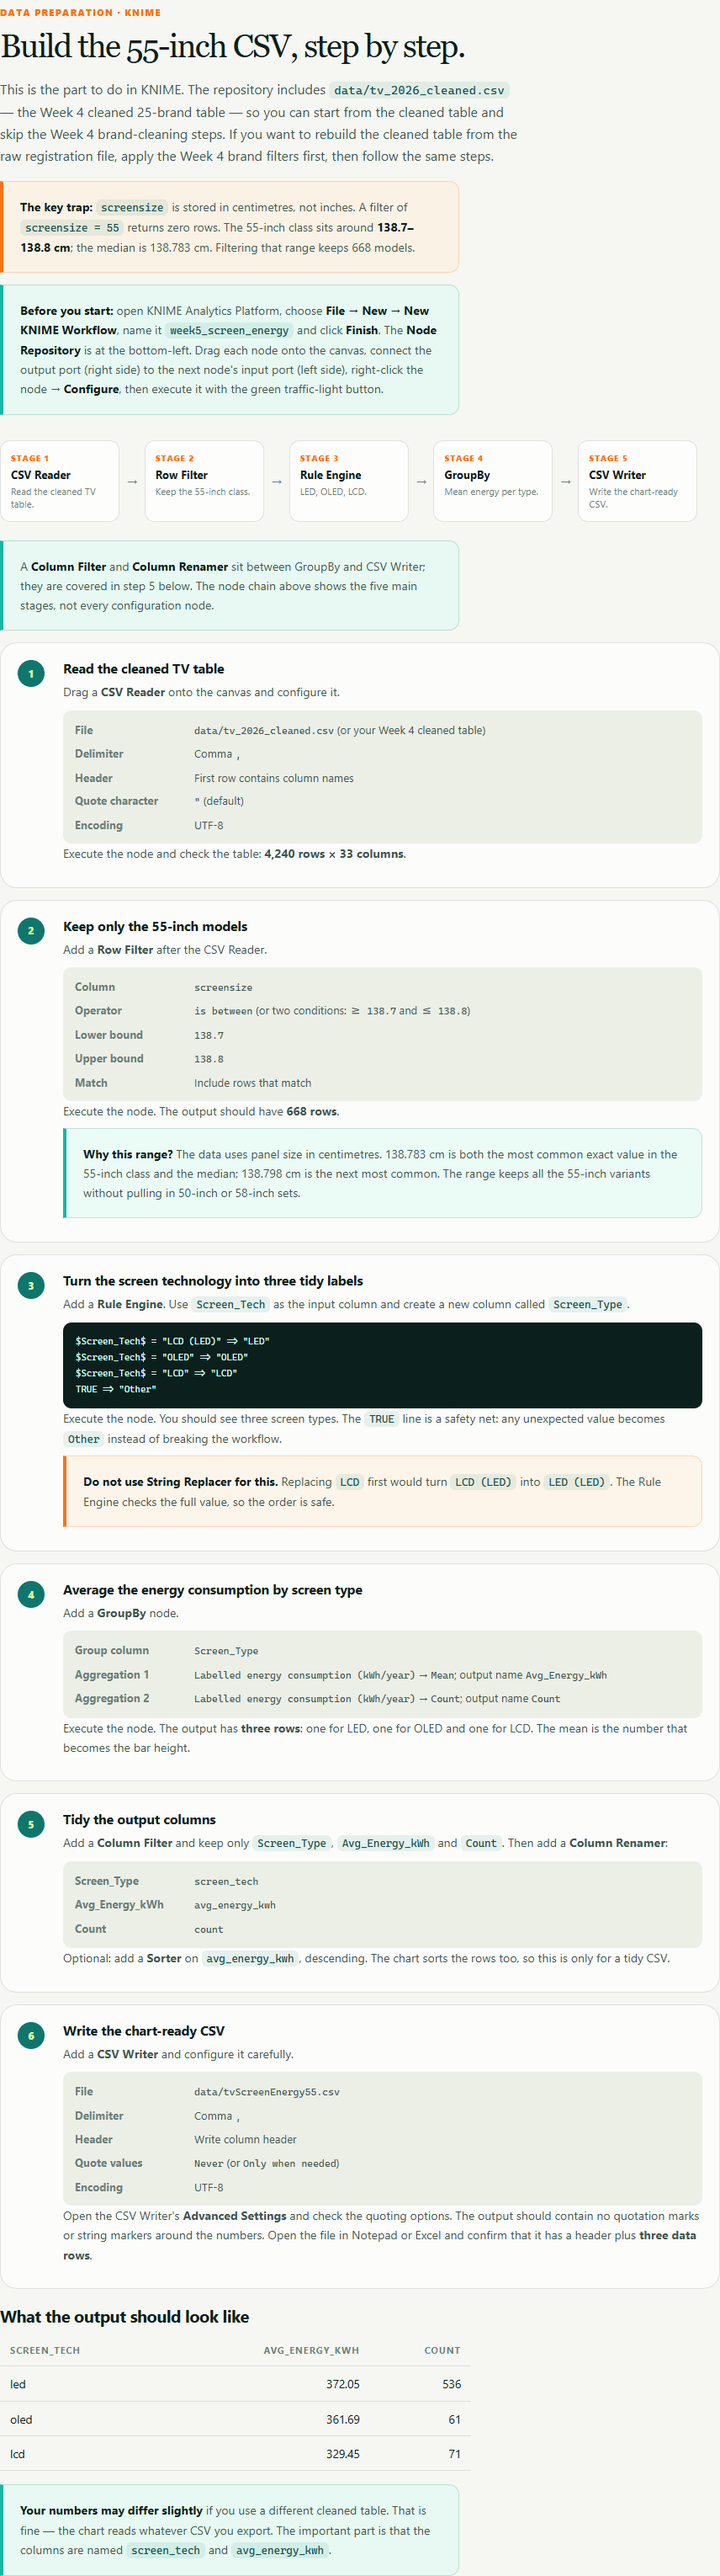
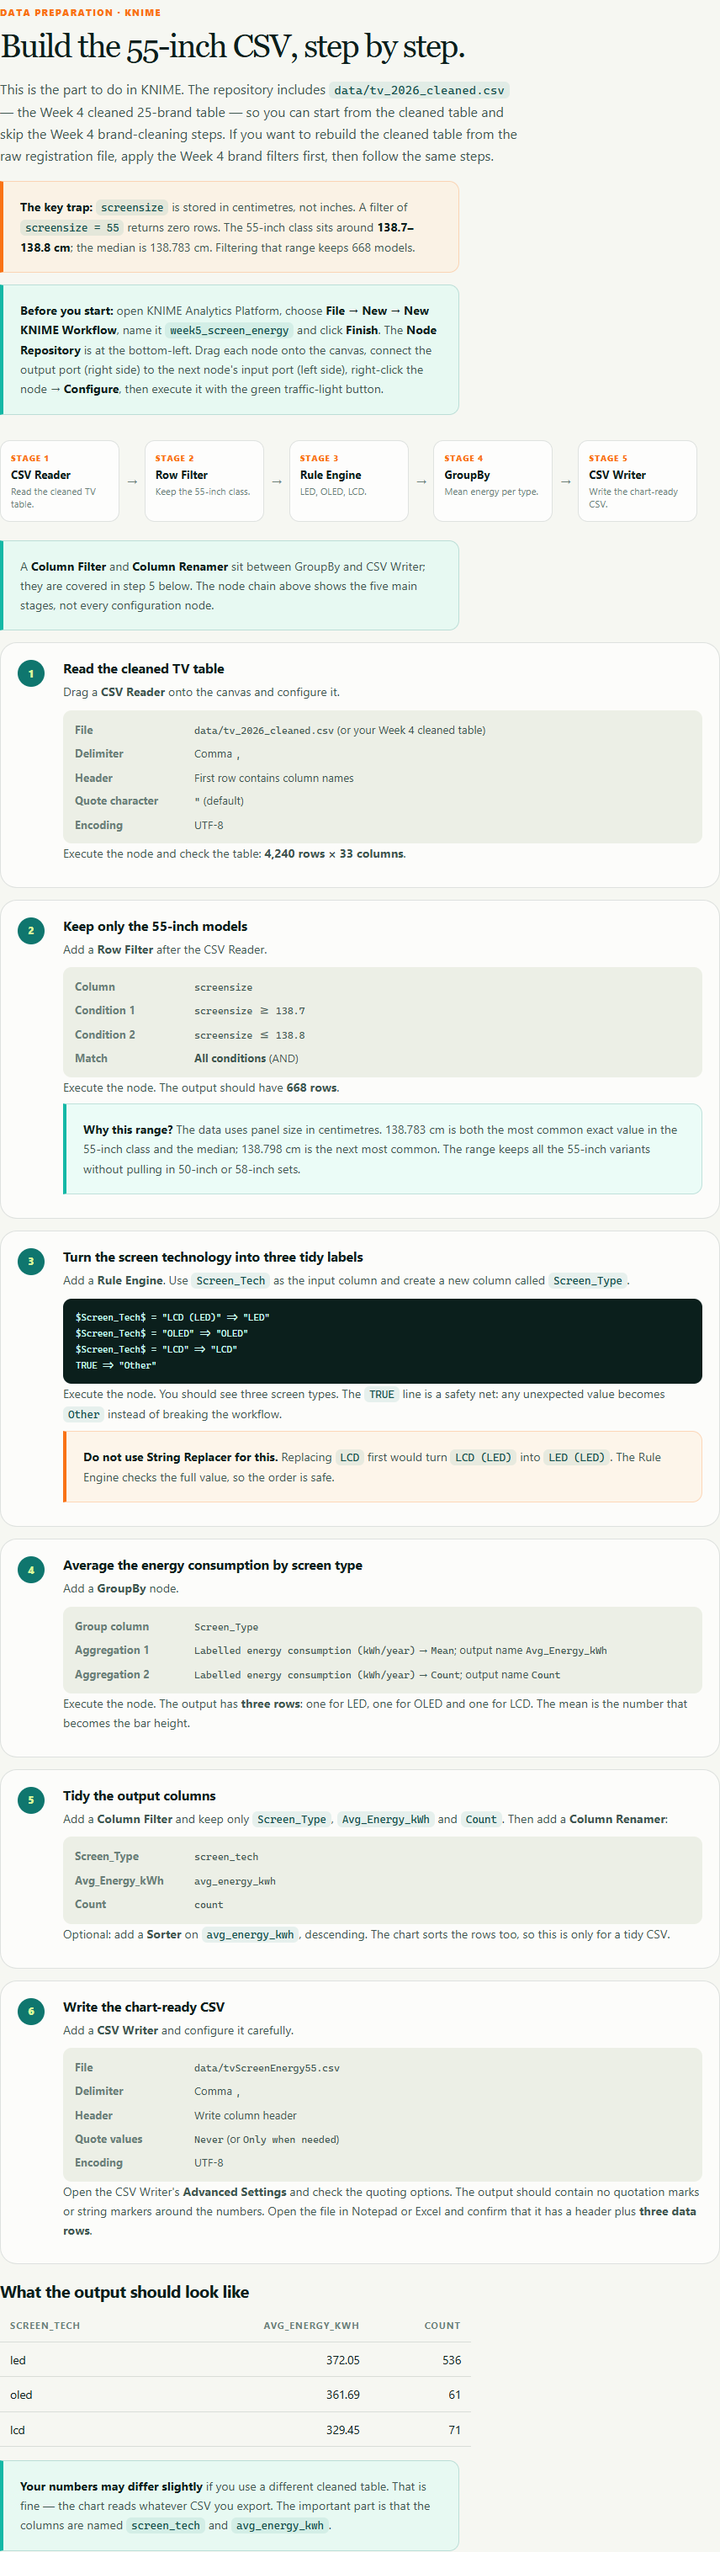
Clarify KNIME Row Filter range conditions

diff --git a/exercises/exercise-5.html b/exercises/exercise-5.html
@@ -302,10 +302,9 @@ innerChart.<span class="code-function">append</span>(<span class="code-string">"
                 <p>Add a <strong>Row Filter</strong> after the CSV Reader.</p>
                 <dl class="knime-settings">
                   <div><dt>Column</dt><dd><code>screensize</code></dd></div>
-                  <div><dt>Operator</dt><dd><code>is between</code> (or two conditions: <code>&gt;= 138.7</code> and <code>&lt;= 138.8</code>)</dd></div>
-                  <div><dt>Lower bound</dt><dd><code>138.7</code></dd></div>
-                  <div><dt>Upper bound</dt><dd><code>138.8</code></dd></div>
-                  <div><dt>Match</dt><dd>Include rows that match</dd></div>
+                  <div><dt>Condition 1</dt><dd><code>screensize &gt;= 138.7</code></dd></div>
+                  <div><dt>Condition 2</dt><dd><code>screensize &lt;= 138.8</code></dd></div>
+                  <div><dt>Match</dt><dd><strong>All conditions</strong> (AND)</dd></div>
                 </dl>
                 <p>Execute the node. The output should have <strong>668 rows</strong>.</p>
                 <p class="note">
